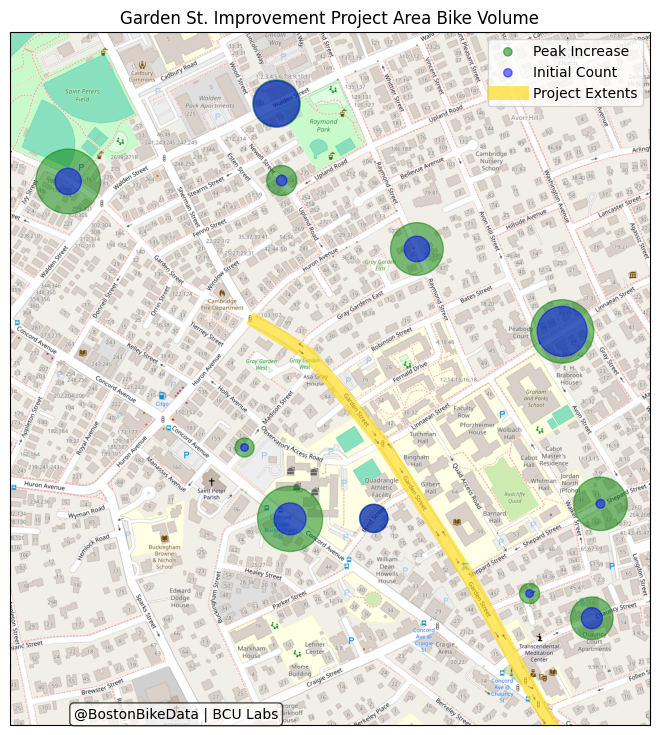
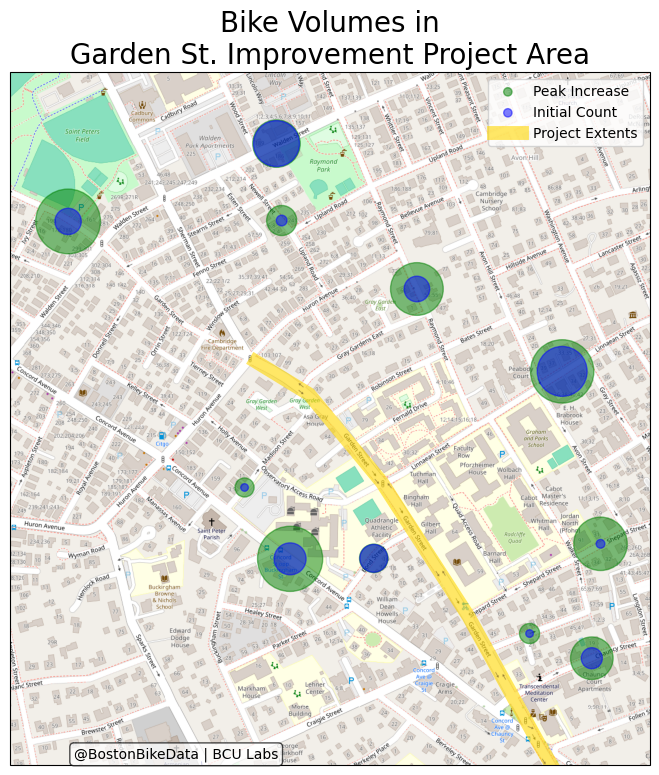
final? garden plots

diff --git a/dataSources/garden st/extract_garden_data.py b/dataSources/garden st/extract_garden_data.py
@@ -434,32 +434,38 @@ s = 75
 
 titleFont = 20
 noteFont = 16
+axisFont = 16
 
 def project_marker(ax, yArrow=110, yText=200):
     projectDate = datetime.date(2022,11,17)
-    text = 'Garden Street bike lane\ninstallation complete'
+    text = 'Garden Street\nupgrade complete'
 
-    # ax.axvline(x=projectDate,
-    #            linewidth=4,
-    #            color='gray')
+    ax.axvline(x=projectDate,
+               linewidth=4,
+               linestyle=":",
+               color='black')
     
-    # ax.text(projectDate - datetime.timedelta(days=1), 0.5,
-    #         text,
-    #         # rotation=90,
-    #         horizontalalignment='right',
-    #         verticalalignment='center',
-    #         rotation='vertical',
-    #         transform=ax.get_xaxis_text1_transform(0)[0],
-    #         )
+    ax.text(projectDate - datetime.timedelta(days=1), 0.5,
+            text, fontsize=noteFont,
+            # rotation=90,
+            horizontalalignment='right',
+            verticalalignment='center',
+            # rotation='vertical',
+            transform=ax.get_xaxis_text1_transform(0)[0],
+            )
     
-    ax.annotate(text, 
-                xy=(projectDate, yArrow), 
-                # xytext=(projectDate + datetime.timedelta(days=5), yText),
-                xytext=(projectDate, yText),
-                fontsize=14, ha='center',
-                arrowprops=dict(facecolor='black', shrink=0.05),
-                transform=ax.get_xaxis_text1_transform(0)[0],
-                )
+    # ax.annotate(text, 
+    #             xy=(projectDate, yArrow), 
+    #             # xytext=(projectDate + datetime.timedelta(days=5), yText),
+    #             xytext=(projectDate, yText),
+    #             fontsize=noteFont, ha='center',
+    #             arrowprops=dict(facecolor='black', shrink=0.05),
+                # arrowprops=dict(facecolor=color, edgecolor=color, 
+                #                             arrowstyle="-",
+                #                             connectionstyle="arc3,rad=0.45",
+                #                             ),
+    #             transform=ax.get_xaxis_text1_transform(0)[0],
+    #             )
 
     return ax
 
@@ -470,6 +476,7 @@ def watermark(ax):
 
 def date_axis(ax):
     ax.xaxis.set_major_formatter(mdates.DateFormatter('%b-%Y'))
+    ax.tick_params(axis='both', which='major', labelsize=14)
     return ax
 
 def baseline_data(ax, dfBaseline):
@@ -485,9 +492,13 @@ def baseline_data(ax, dfBaseline):
     text = 'Baseline bike ridership\n28 day average of Cambridge BlueBike\nand Broadway EcoTotem counts'
     ax.annotate(text, 
                 xy=(arrowX, arrowY), 
-                xytext=(arrowX + datetime.timedelta(days=8), arrowY + 25),
+                xytext=(arrowX + datetime.timedelta(days=8), arrowY + 60),
                 fontsize=14, color=color,
-                arrowprops=dict(facecolor=color, edgecolor=color, shrink=0.05),
+                verticalalignment='center',
+                arrowprops=dict(facecolor=color, edgecolor=color, 
+                                arrowstyle="-",
+                                connectionstyle="arc3,rad=0.45",
+                                ),
                 transform=ax.get_xaxis_text1_transform(0)[0],
                 )
 
@@ -544,8 +555,8 @@ def plot_mode_share(dfGrowthSummary, dfGardenLoc):
     # axTwin.set_ylim(-100,100)
 
     # plt.legend()
-    # plt.xlabel('Count Date')
-    plt.ylabel('Bike Mode Share')
+    # plt.xlabel('Count Date', fontsize=axisFont)
+    plt.ylabel('Bike Mode Share', fontsize=axisFont)
     # plt.suptitle(
     #     'Bike/Car Mode Share on streets near Garden Street Safety Improvement Project')
     ax.set_title('Bike/Car Mode Share on streets near Garden Street Safety Improvement Project',
@@ -612,8 +623,8 @@ def plot_bike_growth(dfGrowthSummary, dfGardenLoc, dfBB, dfBway, dfBaseline):
     plt.xlim(dateLims)
 
     # plt.legend()
-    # plt.xlabel('Count Date')
-    plt.ylabel('Average count location change in bike volume')
+    # plt.xlabel('Count Date', fontsize=axisFont)
+    plt.ylabel('Average count location change in bike volume', fontsize=axisFont)
     # plt.ylim([-100, 850])
     plt.ylim([0, 750])
     # plt.suptitle(
@@ -682,9 +693,9 @@ def plot_bike_volume(dfGrowthSummary, dfDate, dfBB, dfBway, dfBaseline):
     plt.xlim(dateLims)
 
     # plt.legend()
-    # plt.xlabel('Count Date')
-    plt.ylabel('Total bike volume across all count locations')
-    plt.ylim([0, 300])
+    # plt.xlabel('Count Date', fontsize=axisFont)
+    plt.ylabel('Total bike volume across all count locations', fontsize=axisFont)
+    plt.ylim([0, 250])
     # plt.suptitle(
     ax.set_title(
         'Bike volume on streets near Garden Street Safety Improvement Project',
@@ -711,14 +722,18 @@ def plot_volume_adjusted(dfGrowthSummary, dfDate, dfBB, dfBway, dfBaseline):
     plt.plot(dfGrowthSummary.index, dfGrowthSummary['Volume_Norm_100'].rolling('56D', center=True).mean(),
              color=measColor, linewidth=linewidth,
              label='Month Average')
-    measuredDate = datetime.date(2023,2,15)
-    measuredY = 200
+    measuredDate = datetime.date(2023,2,1)
+    measuredY = 165
     ax.annotate('Bike volume measured', 
                 xy=(measuredDate, measuredY), 
                 xytext=(measuredDate - datetime.timedelta(days=5), measuredY+50),
                 horizontalalignment='center',
                 fontsize=14, color=measColor,
-                arrowprops=dict(facecolor=measColor, edgecolor=measColor, shrink=0.05),
+                # arrowprops=dict(facecolor=measColor, edgecolor=measColor, shrink=0.05),
+                arrowprops=dict(facecolor=measColor, edgecolor=measColor, 
+                                arrowstyle="-",
+                                connectionstyle="arc3,rad=0.3",
+                                ),
                 transform=ax.get_xaxis_text1_transform(0)[0],
                 )
     
@@ -746,14 +761,18 @@ def plot_volume_adjusted(dfGrowthSummary, dfDate, dfBB, dfBway, dfBaseline):
     plt.plot(dfGrowthSummary.index, dfGrowthSummary['Adjusted_Volume_Baseline_100'].rolling('56D', center=True).mean(),
              color=adjustedColor, linewidth=linewidth,
              label='Month Average adjusted for bike volume in Cambridge')
-    adjustedDate = datetime.date(2023,1,6)
-    adjustedY = 280
-    ax.annotate('Adjusted bike volume (measured/baseline)', 
+    adjustedDate = datetime.date(2022,12,30)
+    adjustedY = 230
+    ax.annotate('Adjusted bike volume\n(measured/baseline)', 
                 xy=(adjustedDate, adjustedY), 
-                xytext=(adjustedDate - datetime.timedelta(days=10), adjustedY),
+                xytext=(adjustedDate - datetime.timedelta(days=5), adjustedY+40),
                 horizontalalignment='right', verticalalignment='center',
                 fontsize=14, color=adjustedColor,
-                arrowprops=dict(facecolor=adjustedColor, edgecolor=adjustedColor, shrink=0.05),
+                # arrowprops=dict(facecolor=adjustedColor, edgecolor=adjustedColor, shrink=0.05),
+                arrowprops=dict(facecolor=adjustedColor, edgecolor=adjustedColor, 
+                                arrowstyle="-",
+                                connectionstyle="arc3,rad=0.3",
+                                ),
                 transform=ax.get_xaxis_text1_transform(0)[0],
                 )
 
@@ -796,8 +815,8 @@ def plot_volume_adjusted(dfGrowthSummary, dfDate, dfBB, dfBway, dfBaseline):
     plt.xlim(dateLims)
 
     # plt.legend(loc=2)
-    # plt.xlabel('Count Date')
-    plt.ylabel('Total bike volume across all count locations')
+    # plt.xlabel('Count Date', fontsize=axisFont)
+    plt.ylabel('Total bike volume across all count locations', fontsize=axisFont)
     plt.ylim([0, 400])
     # plt.suptitle(
     ax.set_title(
@@ -837,6 +856,14 @@ def plot_bike_growth_map(countLocale, projectPath, dfGardenLoc):
     sc = plt.scatter(long, lat, transform=ccrs.PlateCarree(),
                      marker='o', color='red', s=growth, alpha=0.5,
                      linestyle='', label='Growth relative to initial count')
+    for i, v in enumerate(growth):
+        if v < 700:
+            latText = lat[i] + 0.00001 * np.sqrt(v) + 0.0001
+        else:
+            latText = lat[i]
+        ax.text(long[i], latText, f'{v:0.0f}%', 
+                ha="center", va="center",
+                transform=ccrs.PlateCarree(),)
 
     plt.plot(projectPath[:, 1], projectPath[:, 0], transform=ccrs.PlateCarree(),
              alpha=0.6, color='gold', linewidth=10)
@@ -846,7 +873,7 @@ def plot_bike_growth_map(countLocale, projectPath, dfGardenLoc):
                       fc="white", ec="black", lw=1, alpha=0.7))
 
     plt.legend(loc=1, handler_map={type(sc): HandlerPathCollection(update_func=update_prop)})
-    plt.title('Garden St. Improvement Project Area Bike Volume Increase')
+    plt.title('Bike Volume Percent Change in\nGarden St. Improvement Project Area', fontsize=titleFont)
     plt.show()
     fig.savefig(f'{folder}/bike_growth_map.png', bbox_inches='tight')
 
@@ -898,7 +925,7 @@ def plot_bike_volume_map(countLocale, projectPath, dfGardenLoc):
                       fc="white", ec="black", lw=1, alpha=0.7))
 
     plt.legend(loc=1, handler_map={type(sc): HandlerPathCollection(update_func=update_prop)})
-    plt.title('Garden St. Improvement Project Area Bike Volume')
+    plt.title('Bike Volumes in\nGarden St. Improvement Project Area', fontsize=titleFont)
     plt.show()
     fig.savefig(f'{folder}/bike_raw_volume_map.png', bbox_inches='tight')
 
@@ -945,17 +972,17 @@ def main():
         dfGarden, dfBB, dfBway)
 
 # %% Make the plots!
-    plot_mode_share(dfGrowthSummary, dfGardenLoc)
-    plot_bike_growth(dfGrowthSummary, dfGardenLoc, 
-                     dfBB, dfBway, 
-                     dfBaseline)
+    # plot_mode_share(dfGrowthSummary, dfGardenLoc)
+    # plot_bike_growth(dfGrowthSummary, dfGardenLoc, 
+    #                  dfBB, dfBway, 
+    #                  dfBaseline)
 
-    plot_bike_volume(dfGrowthSummary, dfGardenLoc, 
-                     dfBB, dfBway, 
-                     dfBaseline)
-    plot_volume_adjusted(dfGrowthSummary, dfGardenLoc, 
-                         dfBB, dfBway, 
-                         dfBaseline)
+    # plot_bike_volume(dfGrowthSummary, dfGardenLoc, 
+    #                  dfBB, dfBway, 
+    #                  dfBaseline)
+    # plot_volume_adjusted(dfGrowthSummary, dfGardenLoc, 
+    #                      dfBB, dfBway, 
+    #                      dfBaseline)
 
     plot_bike_growth_map(countLocations, projectArea, dfGardenLoc)
     plot_bike_volume_map(countLocations, projectArea, dfGardenLoc)
